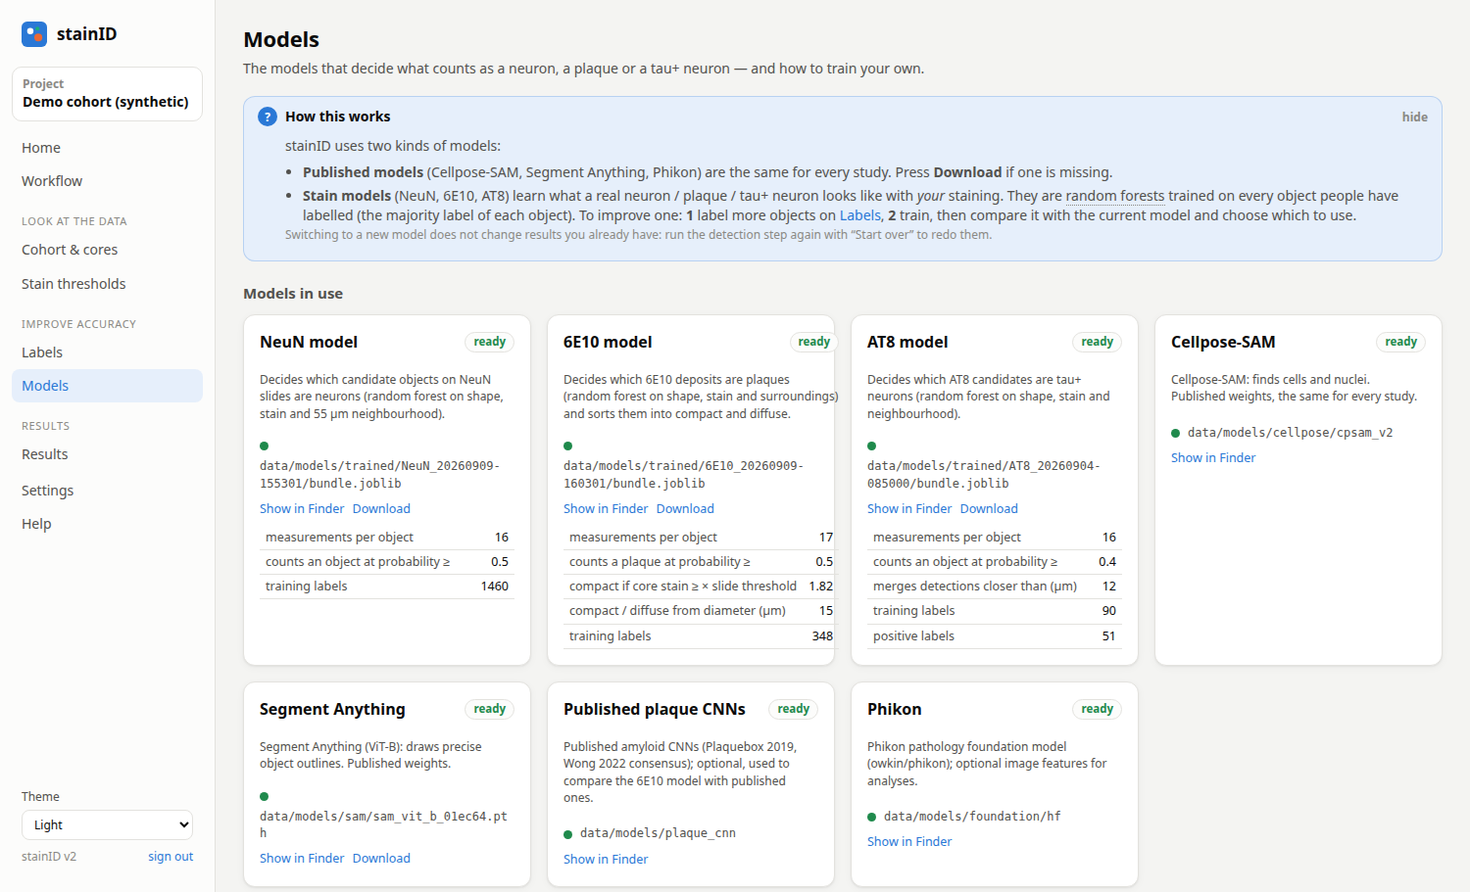
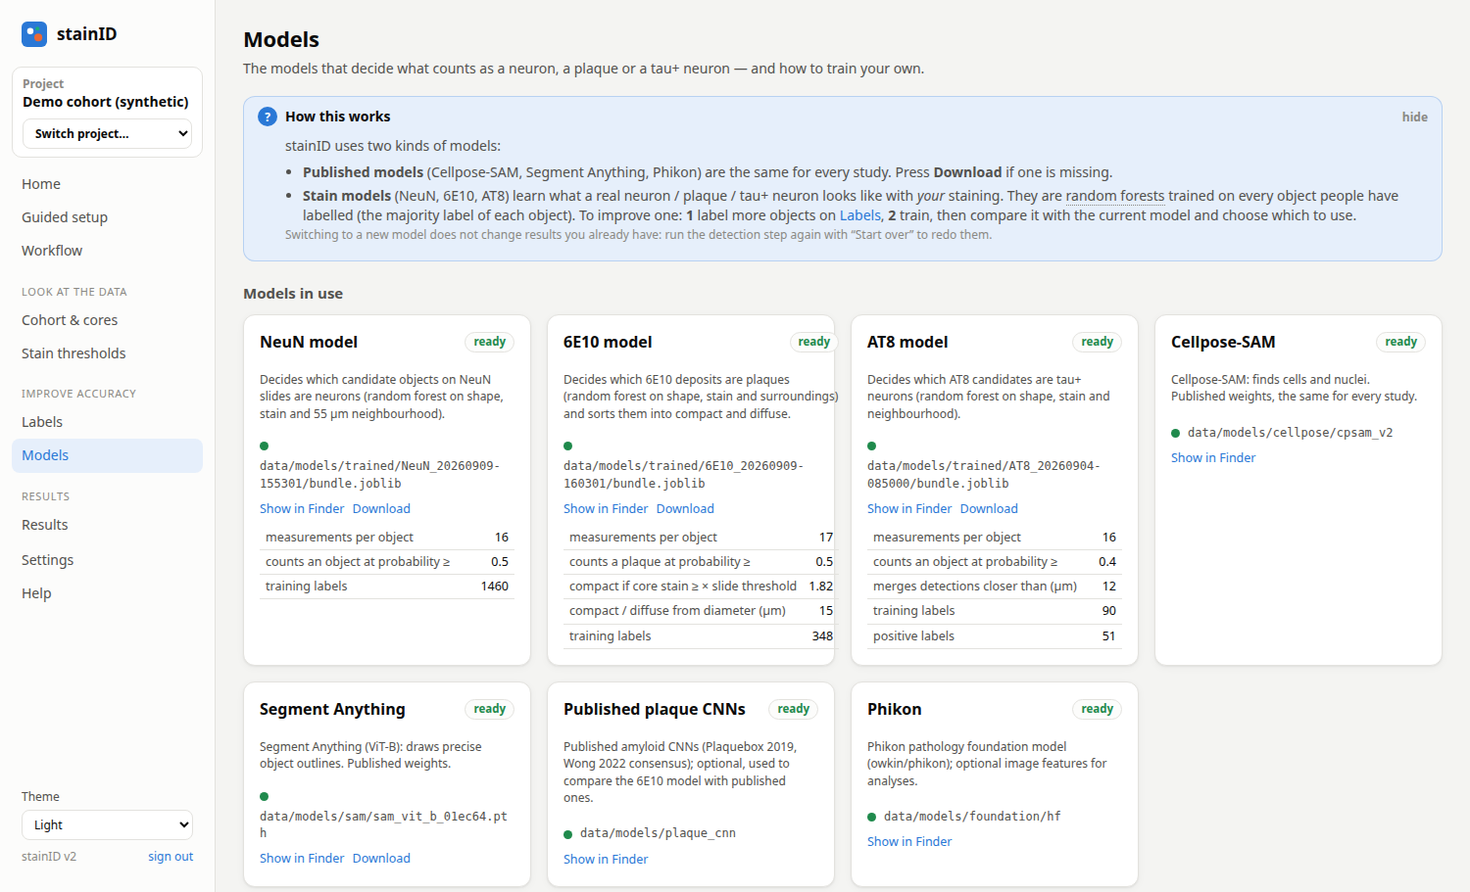
Docs: projects and several people in different projects, slides chosen from lists, architecture; new README screenshots (synthetic demo)

Changed region(s): [[0.0, 0.1229, 0.092, 0.3996], [0.0, 0.4303, 0.092, 0.5532], [0.0, 0.5532, 0.0613, 0.6762]]

diff --git a/docs/webapp.md b/docs/webapp.md
@@ -5,31 +5,55 @@
 Double-click `Start stainID.command` (macOS) or `Start stainID.bat` (Windows), or run:
 
 ```bash
-stainid serve                              # opens http://127.0.0.1:8765 in the browser
-stainid --project path/to/study serve      # open a specific project
+stainid serve                              # opens the Projects page, http://127.0.0.1:8765
+stainid --project path/to/study serve      # opens that project
+stainid serve --projects-dir ~/Studies     # also list every project folder in ~/Studies
 stainid serve --no-browser --port 9000
 stainid serve --host 127.0.0.1             # reachable from this computer only
 stainid serve --allow-origin http://lab-pc:8080   # also answer a copy of the web app served from there (see below)
 ```
 
-The app opens the project used last, or the current folder. If that folder has no `stainid.yaml`, a welcome screen
-offers to create a new project or open an existing one. If stainID is already running, starting it again just opens the
-browser.
+The app opens on the **Projects** page (see [Projects](#projects)), or on the project given with `--project`. If
+stainID is already running, starting it again just opens the browser.
 
 **Admin password.** The app asks for the admin password; it is `admin` until you change it under *Settings → Admin
 password*. The app listens on your network (so annotators can reach the annotation pages), but everything except
 those pages needs the password, and while it is still `admin` you can only sign in on the computer running stainID.
 
 **Several people at once.** Anyone on your network can open `http://<the computer running stainID>:8765` in their
-browser. Each person signs in (or, on the annotation pages, gives a name), and everyone sees the same project, the
-same job list and the same queue: two people can press Run at the same time, and the queue orders their steps as if
-one person had pressed both.
+browser. Each person signs in (or, on the annotation pages, gives a name) and picks a project. People in the same
+project see the same job list and the same queue: two people can press Run at the same time, and the queue orders their
+steps as if one person had pressed both. People in different projects work side by side: the project is part of the
+page's address (`/p/<project>/workflow`), so switching project in one browser changes nothing for anyone else, and a
+link to a page always opens the right project. Each project keeps its own job list; heavy steps take turns across all
+projects (see [How steps run](#how-steps-run)).
+
+## Projects
+
+The **Projects** page (the start page, and *Switch project… → All projects* at the top of the sidebar) lists every study
+this server knows: the projects opened in the app before, and every folder with a `stainid.yaml` in the projects folder.
+Each shows its status (*Not set up yet*, *Set up*, *Running: …* with the steps that run, *Results ready*) and when it
+was last opened.
+
+- **New study**: a study name and where to keep it (the projects folder when one is set); stainID makes a folder with
+  the study's name there and opens the guided setup. *Start with the settings of* another study copies, as you choose,
+  its diagnostic groups, stains, models and their settings (the new study uses the same model files) and its TMA
+  layout and naming (core-name prefix, rows and columns, pixel size, how donor ids and donor-regions are written).
+  Slides, maps, donors and results are never copied.
+- **Open existing folder…**: choose a folder that holds a `stainid.yaml`.
+- **Remove from list**: takes the study off the list only. Its folder is not touched, steps still running carry on,
+  and opening the folder again brings it back.
+- **Advanced → Projects folder**: the folder whose project folders are listed (`stainid serve --projects-dir DIR` sets
+  it for one run and wins over this setting).
+
+The list is kept in `~/.stainid/app.json` (`recent`, the folders opened, most recent first; `opened`, when;
+`projects_dir`; `hidden`, folders of the projects folder removed from the list).
 
 ## A study, from start to finish
 
 | | Where | What you do |
 |---|---|---|
-| 1 | Welcome screen | Create a project: a study name and an empty folder. |
+| 1 | **Projects** | *New study*: a study name and where to keep it. |
 | 2 | **Guided setup** | Slides, cores, TMA maps, donor information and checks, in six short screens (see [The guided setup](#the-guided-setup)); it ends with *Run everything*. |
 | 3 | **Models** | Download the published models. Add the NeuN, 6E10 and AT8 models, or train them (see [Training a model](#training-a-model)). |
 | 4 | **Workflow** | Follow the steps as they run; run any step on its own with its options. |
@@ -46,7 +70,7 @@ has got, and any screen can be opened again later.
 
 | Screen | What stainID does | What you do |
 |---|---|---|
-| **Slides** | Lists the scans in the slides folder and reads the TMA number and stain from each file name (`TMA LIP-3 AT8.vsi` → TMA 3, AT8); suggests the core-name prefix (`LIP-`). New scans are marked *new*. | Check the table, correct anything it got wrong, *Save and continue*. |
+| **Slides** | Lists the scans in the slides folder, each with a small picture of the slide and its label (the overview the scan file keeps, also for `.vsi`; else the Find cores preview). Where a file name says the TMA and stain clearly (`TMA LIP-3 AT8.vsi` → TMA 3, AT8) they are filled in and marked *from the file name*; an unclear name (two stains, several numbers none of which follows the core-name prefix or the word TMA) leaves the row empty and highlighted. Suggests the core-name prefix (`LIP-`). New scans are marked *new*. | Choose each slide's **TMA** from the study's TMAs (or *New TMA…*: type it once, e.g. `LIP-12` or `12`, and it is in the list) and its **stain** from the study's stains. *Save and continue* waits until every slide has both and no TMA has the same stain twice (“2 slides still need a TMA”). |
 | **Cores** | *Find cores* fits the grid of cores on every slide. A slide without its own rows and columns gets the size that fits best (the project's size unless another fits clearly better); the size is written to the slides table. One picture per slide shows the fitted grid, with how well it fits. | *Looks right*, or *Fix*: give the slide its rows and columns, or say it lies turned (180°) or mirrored, and its cores are found again. |
 | **Map** | Reads the maps from the files you add: Excel sheets, Word tables, CSV, or cells pasted from a spreadsheet. A map is a grid like the array (rows 1, 2, … columns A, B, …); a cell names the donor and region, and usually the group and pathology (`1673 FR` / `AD` / `C:C - B:6`), on one to three lines or over three table rows per map row. Stray spaces (`17 00 FR`, `OC C`), en dashes, prefixed ids (`JOG3 FR` → `JOG_003`) and control cores (`CBLM`, `STOM`) are read through. Each map is guessed to the TMA in its name. | Check the preview grid (cells it could not read have a yellow edge; type into any cell to correct it) and save it as the map of its TMA. A map that is only a photo: *Type it in* opens an empty grid with a picture of the core at each position. |
 | **Donors** (optional) | Reads the case sheet: finds the header row by its column names and matches each column (donor id, group, age, sex, race, PMI/PMD, APOE, CERAD, Braak, TMA, diagnoses …); section rows (“CONTROL <65 (90 cases)”) give the group, a repeated header (“JOG#”) starts its own id series, “~15” and “>90” are read as numbers (kept as written beside them). Keeps the donors on the maps and on the study's TMAs. | Check the preview and *Save*. Under Advanced: change a column match, keep every donor, replace instead of update. |
@@ -76,7 +100,7 @@ project without saved maps uses the rule under *Map → Advanced* (`sample_regio
   Colours show done, partly done, running, waiting, failed and "made with an older model".
 - **All jobs** (folded): every run with its command and log.
 
-The *Register slides* step holds the slides-table editor, and *Attach TMA map* the template download and the CSV
+The *Register slides* step holds the slides-table editor (the same table as the Slides screen), and *Attach TMA map* the template download and the CSV
 upload, for those who prefer them to the guided setup.
 
 ## How steps run
@@ -85,7 +109,12 @@ Steps run in the background, started by a queue with two rules:
 
 - **Order.** A step waits while a step that makes something it needs (an arrow on the map) is still running or
   waiting. The same step with the same options never runs twice at once.
-- **Load.** At most two heavy steps (Cellpose, detection, outlines) run at the same time.
+- **Load.** At most two heavy steps (Cellpose, detection, outlines) run at the same time on the whole server, over
+  all projects (there is one GPU). A heavy step that waits for a slot says where the running ones are ("Waits for a
+  free slot: 2 heavy steps are already running, 1 in the project “Second cohort” (Find nuclei) …"). Heavy steps
+  running from the command line count too, also in projects of the list that nobody has open in the app.
+
+The order rule applies within a project; each project keeps its own job list (in its `outputs.jobs` folder).
 
 So you can press Run on several steps in a row and they start in the right order; each waiting step says what it is
 waiting for. Just before a step starts, the queue checks that everything it needs exists. If not, the step is
@@ -140,7 +169,7 @@ the sign-in as a token instead of a cookie.
 | **Labels** | Labelling progress per stain, how often people and the AI agree, the labelling sessions (create, start, stop, share the link, follow people, download) and all labels as CSV. |
 | **Models** | Every model with its status and settings, download buttons, training from all labels, and trained models compared with the current one. |
 | **Results** | The main results table (download), every other table, plots by group and region, and the meaning of every column. |
-| **Settings** | Study name, TMA layout, diagnostic groups and every file location, with a folder picker. Also opens or creates another project, changes the admin password and (folded away) chooses the server. |
+| **Settings** | Study name, TMA layout, diagnostic groups and every file location, with a folder picker. Also leads to the Projects page to open or create another project, changes the admin password and (folded away) chooses the server. |
 | **Help** | Getting started, common questions and a glossary. Words with a dotted underline show their definition on hover. |
 
 ## Labels
@@ -172,8 +201,10 @@ Other people label in their browser; everything is managed on the Labels page.
    - **Quick object queue**: one object at a time, labelled with the keyboard. The next object is chosen anew each time
      from all prepared fields: where the AI is unsure, where people disagree with each other or with the AI, objects
      one other person has labelled, or at random; each person gets objects they have not labelled, fewest labels first.
-2. **Start** it and send the link shown on the page (`http://<this computer>:8765/annotate`). People register a name
-   and can stop and continue later under the same name. Only started sessions are listed, and nothing else in stainID
+2. **Start** it and send the link shown on the page (`http://<this computer>:8765/p/<project>/annotate`: the link
+   names the project, so people label in the right study whatever others have open). People register a name
+   and can stop and continue later under the same name. Links of the previous release without a project
+   (`…:8765/annotate`) still work and open the project opened last. Only started sessions are listed, and nothing else in stainID
    is reachable without the admin password.
 3. Follow progress, the people and their changes; **+10 fields** extends a session; **Stop** closes it but keeps
    everything; **Delete** moves the session definition aside (its labels stay).

diff --git a/docs/development.md b/docs/development.md
@@ -31,10 +31,11 @@ React 19 + TypeScript + Vite, with no UI framework:
 | path | |
 |---|---|
 | `src/index.css` | design tokens (light / dark) |
-| `src/api.ts` | typed API client; `apiBase` / `apiUrl` decide which server it talks to |
+| `src/api.ts` | typed API client; `apiBase` / `apiUrl` decide which server it talks to; `projectId` / `scoped` add the page's project to every call |
 | `public/config.js` | optional `window.STAINID_SERVER` for a copy of the app served from somewhere else |
 | `src/hooks.ts` | `useFetch`, `useStored` |
-| `src/project.tsx` | project context: group labels / colours, TMA names |
+| `src/project.tsx` | project context: group labels / colours, TMA names; the project switcher |
+| `src/slides.tsx` | the slides-table editor shared by the guided setup and the Register slides step |
 | `src/glossary.ts` | glossary behind hover definitions and the Help page |
 | `src/components.tsx`, `src/charts.tsx` | shared pieces (help boxes, folder picker, path lines, option fields, charts) |
 | `src/pages/` | one file per page |
@@ -76,13 +77,14 @@ take its screenshots, `tools/demo/make_setup_demo.py OUT_DIR` makes a synthetic 
 ## Architecture
 
 ```
- browser: web app (webapp/, built into stainid/api/static)
-    │  JSON over HTTP, /api/...  (cookies; or a token when the app is served from another address)
+ browser: web app (webapp/, built into stainid/api/static), a project's pages at /p/<project>/...
+    │  JSON over HTTP, /api/projects/<project>/...  (cookies; or a token when the app is served from another address)
     ▼
- server: FastAPI app (stainid/api) ── reads project files for the pages; queues and starts steps (stainid/api/jobs.py)
+ server: FastAPI app (stainid/api) ── one ProjectState per open project (state.py): reads its files for the pages,
+    │                                  queues and starts its steps (jobs.py); heavy steps share one limit (SLOTS)
     │  writes / reads
     ▼
- job store: outputs.jobs/<id>.json, <id>.log, <id>.exit  (stainid/jobs)
+ job store, one per project: outputs.jobs/<id>.json, <id>.log, <id>.exit  (stainid/jobs)
     ▲                                   ▲
     │ python -m stainid.jobs.run        │ registers itself
  app jobs: `stainid <step>` subprocesses      command-line runs: `stainid <step>` typed in a terminal
@@ -105,8 +107,27 @@ take its screenshots, `tools/demo/make_setup_demo.py OUT_DIR` makes a synthetic 
   conflicting queued jobs wait (`wait_reason`). A run whose process is gone without a final record is marked
   interrupted; Stop in the app sends SIGTERM to its process group (or to the process alone when it does not lead
   one, e.g. one of several commands started by a script).
-- **Several people at once.** The server keeps no per-browser state besides the signed sign-in; every browser sees the
-  same project, job list and queue.
+- **Several projects at once.** The project is part of every address: pages live under `/p/<project>/...` (the
+  router's base, set in `main.tsx`, so links inside the app need no project) and `api.ts` sends every call of such a
+  page to `/api/projects/<project>/...`, except the server-wide `/api/session` and `/api/projects`. That is the only
+  place the client adds the project. On the server, `ProjectScope` (`stainid/api/app.py`, the outermost middleware)
+  takes `/projects/<id>` out of the path and sets `state.CURRENT` for that request, so the routes are written once and
+  call `state.get_state()`, which returns that project's `ProjectState` (one per open project, kept by id, each with
+  its own `JobManager` over its own job store). There is no current project of the server: an address without a
+  project (older web apps, old links) uses the project opened last (`state.open_project`); `state.reload_project`
+  re-reads an open project after a change without making it the last. The server never changes its working folder or
+  environment for a project; each job gets its project's model folders (`Project.environment`).
+- **Project ids and the projects list** (`stainid/api/registry.py`). A project's id is its folder name made safe for
+  addresses plus a hash of its path, so it is stable and needs no table. The list is the recent projects of
+  `~/.stainid/app.json` plus the project folders in the projects folder (`--projects-dir` / the saved setting), minus
+  those removed from the list. Its status is computed from a few file checks and the newest job records
+  (`state.project_status`).
+- **One heavy-step limit for the server.** `stainid/api/jobs.py: SLOTS` (a `HeavySlots`) is shared by every
+  `JobManager`: a queue decides what to start while holding its lock, counting the heavy steps running in every open
+  project, and (through `state.running_elsewhere`, rescanned every 10 s) heavy command-line runs in projects of the
+  list that are not open. Order rules (`wait_reason`) stay per project.
+- **Several people at once.** The server keeps no per-browser state besides the signed sign-in; every browser in a
+  project sees the same job list and queue, and the project a browser shows is only in its address.
 
 ## API
 
@@ -114,17 +135,20 @@ The server is a FastAPI app (`stainid.api`). It serves the built front end from 
 under `/api`. Everything except `/api/session` and `/api/annotate` needs the admin sign-in (`stainid/api/session.py`):
 a signed cookie, or for a web app served from another address the token that sign-in returns, sent as
 `Authorization: Bearer <token>` (or `?access_token=` on plain GETs). CORS is off unless `stainid serve --allow-origin
-URL` (or `STAINID_ALLOW_ORIGINS`) names the addresses allowed. Job records and logs are in `outputs.jobs`. The
-last-used project is remembered in `~/.stainid/app.json`.
+URL` (or `STAINID_ALLOW_ORIGINS`) names the addresses allowed. Job records and logs are in each project's
+`outputs.jobs`. The projects list is kept in `~/.stainid/app.json`.
 
-Main routes:
+Every project route below is answered for one project at `/api/projects/<id>/...` (e.g.
+`/api/projects/demo-project-024fe3/summary`), and for the project opened last at the plain `/api/...` address. Main
+routes:
 
 | Route | |
 |---|---|
-| `GET /api/project`; `PUT /api/project/config`; `POST /api/project/open`, `/api/project/create` | project settings and switching |
+| `GET /api/projects`; `POST /api/projects/open`, `/api/projects/create` (`copy_from`, `settings`); `DELETE /api/projects/{id}`; `PUT /api/projects/settings` | the projects list (server-wide) |
+| `GET /api/project`; `PUT /api/project/config` | project settings (`POST /api/project/open`, `/create`: the previous release's switch, kept) |
 | `GET /api/steps` | every step: needs / makes (with paths and existence), options, progress, latest job |
 | `GET/POST /api/jobs`; `DELETE /api/jobs/{id}`; `GET /api/jobs/{id}/log` | run, stop and follow steps |
-| `GET/PUT /api/slides`; `GET /api/grids`, `/api/grids/{name}` | slides table; core-grid check images |
+| `GET/PUT /api/slides`; `GET /api/slides/picture?path=`; `GET /api/grids`, `/api/grids/{name}` | slides table (with what came from file names, `stainid/slides/table.py: read_name`); a picture of each slide (`stainid/slides/overview.py`); core-grid check images |
 | `GET /api/templates/{tma_layout,donor_metadata}.csv`; `POST /api/upload/{kind}` | CSV templates and validated uploads |
 | `GET /api/fs`; `POST /api/reveal`; `GET /api/download` | folder picker, Show in Finder, file download (project folder only) |
 | `GET /api/summary`, `/api/calibration`, `/api/cores`, `/api/cores/{id}`, `/api/tmas/{tma}/layout` | cohort browsing |

diff --git a/README.md b/README.md
@@ -38,10 +38,11 @@ slides. Every step is also a `stainid` command.
 2. **Start.** Double-click **`Start stainID.command`** (or `.bat`). stainID opens in your web browser; the admin
    password is `admin` until you change it in Settings. Keep the small terminal window open while you work, because
    closing it stops running steps.
-3. **Create a project** on the welcome screen: a study name and an empty folder. Settings, core images and results
-   for the study are all kept in that folder.
-4. **Follow the guided setup** (Home → *Start the guided setup*). Six short screens: the slides are matched to
-   their TMA and stain from the file names, the cores are found on each slide (the grid size too), the TMA maps and
+3. **Create a project** on the Projects page (*New study*): a study name and where to keep it. Settings, core images
+   and results for the study are all kept in its folder. The Projects page lists every study on this computer; several
+   people can work at the same time, each in their own study.
+4. **Follow the guided setup** (Home → *Start the guided setup*). Six short screens: each slide's TMA and stain
+   are chosen from lists, beside a picture of the slide's label (filled in where the file name says them clearly), the cores are found on each slide (the grid size too), the TMA maps and
    the donor sheet are read from the files your lab keeps them in, and a check says in plain words what does not fit
    together. You confirm what was found; every technical detail is under *Advanced*. *Run everything* then starts
    all the analysis steps. Adding slides later works the same way (Home → *Add slides*); see
@@ -58,7 +59,7 @@ The Help page in the app has the same guide, answers to common questions and a g
 
 | | Step | What it does | Command |
 |---|---|---|---|
-| **Slides** | Register slides | say which scan is which TMA and stain (guessed from file names) | *web app* |
+| **Slides** | Register slides | say which scan is which TMA and stain (chosen from lists; filled in where the file name says it clearly) | *web app* |
 | | Find cores | fit the TMA grid on each slide (the grid size is found when a slide has none set) | `stainid dearray` |
 | | Attach TMA map | donor, brain region and diagnostic group for each core | `stainid layout` |
 | | Export cores | native-resolution core images | `stainid export` |
@@ -89,8 +90,8 @@ All screenshots show a synthetic demo project: the tissue images, donors, labels
 | **Home**: your next step and overall progress | **Models**: download published models; train from all labels, compare, switch |
 | ![Core viewer](docs/images/viewer.jpg) | ![Labels](docs/images/labels.png) |
 | **Cohort & cores**: the whole core; click any spot for a full-resolution preview with the detections drawn on it | **Labels**: progress per stain, agreement with the AI, labelling sessions and the link to share |
-| ![Reviewing a field](docs/images/annotate.jpg) | |
-| **Reviewing a field** (at `/annotate`): the AI's calls and outlines pre-filled; people correct, add and confirm | |
+| ![Reviewing a field](docs/images/annotate.jpg) | ![Projects](docs/images/projects.png) |
+| **Reviewing a field** (at `/p/<project>/annotate`): the AI's calls and outlines pre-filled; people correct, add and confirm | **Projects**: every study with its status; new study, open a folder, switch |
 | ![Results](docs/images/results.png) | ![Settings](docs/images/settings.png) |
 | **Results**: download the main table, what every column means, plots by group | **Settings**: study layout, diagnostic groups and every file location |
 

diff --git a/docs/guide_adding_slides.md b/docs/guide_adding_slides.md
@@ -10,17 +10,29 @@ Have these ready:
 
 1. **The slide scans**, one file per TMA and stain (`.vsi`, `.svs`, `.ndpi`, `.czi`, `.tif` …). Copy them into the
    study's slides folder (by default `data/slides` in the project folder). Names like `TMA LIP-8 NeuN.vsi`, with the
-   TMA number and the stain in them, let stainID fill everything in by itself.
+   TMA number and the stain in them, let stainID fill the table in by itself; with other names you choose them from
+   a list.
 2. **The TMA maps**: which donor is on which core. Whatever your lab keeps them in works: an Excel sheet, a table in a
    Word document, a CSV file, or even a photo or a scan of a printed map (you type that one in).
 3. **The case spreadsheet** (optional): one row per donor with age, sex, PMI, APOE, CERAD, Braak and so on.
 
-Then open stainID and press **Add slides** on Home (for a new study: **Start the guided setup**).
+Then open stainID, pick the study on the **Projects** page (for a new study: **New study**, which opens the guided
+setup) and press **Add slides** on Home.
 
 ## 1. Slides
 
-stainID lists the scans in the slides folder and reads the TMA and stain from each file name. New scans are marked
-*new*. Look down the table: if a TMA number or stain is wrong or empty, correct it. Press **Save and continue**.
+stainID lists the scans in the slides folder, each with a small picture of the slide so you can read its label
+(click it to see it larger). New scans are marked *new*. For each scan choose its **TMA** and its **stain** from the
+lists:
+
+- where the file name says them clearly, they are already filled in and marked *from the file name*; check them;
+- highlighted rows still need a choice ("choose the TMA", "choose the stain"); when the file name holds several
+  numbers, the row says which ones;
+- a TMA the study does not have yet: choose **New TMA…**, type it (`LIP-12` or just `12`) and press **Add**; it is
+  then in the list for the other slides too.
+
+**Save and continue** becomes available once every slide has a TMA and a stain (the line beside it says how many
+still need one) and no TMA has the same stain twice.
 
 *If no scans are listed:* press *Choose another folder…* and pick the folder with the scans.
 
